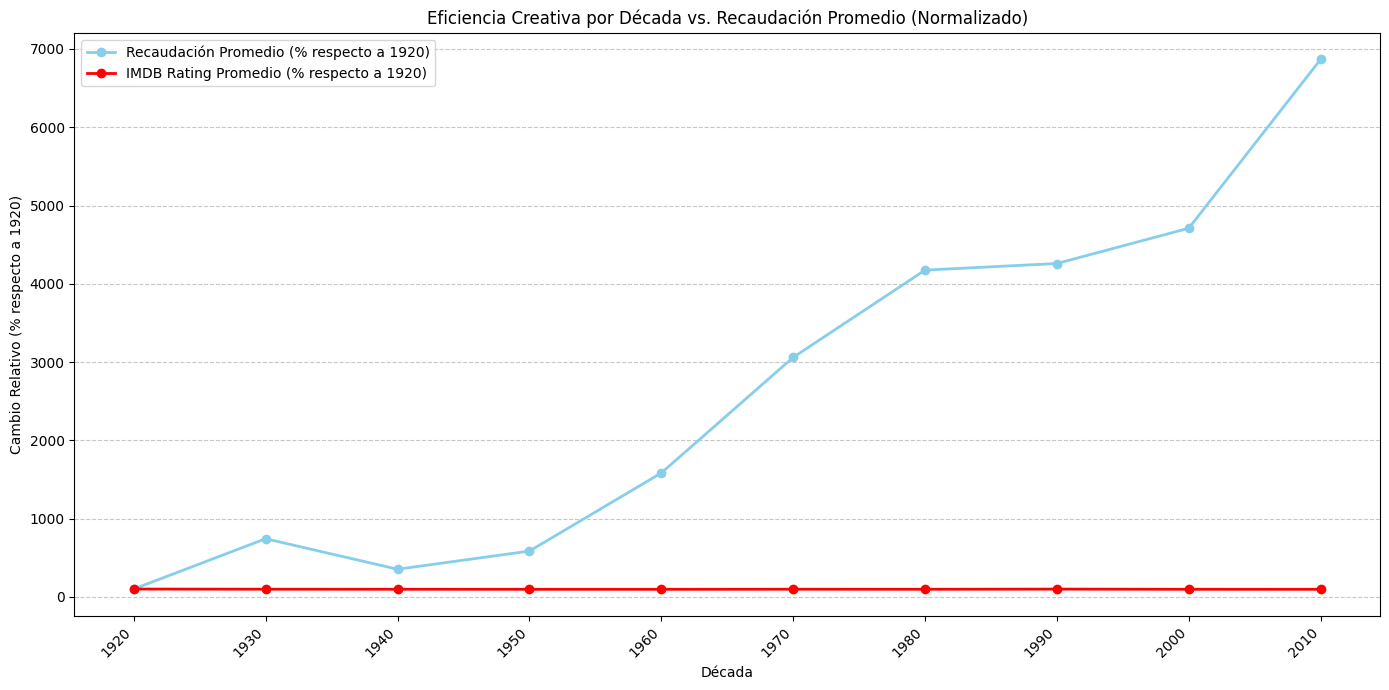
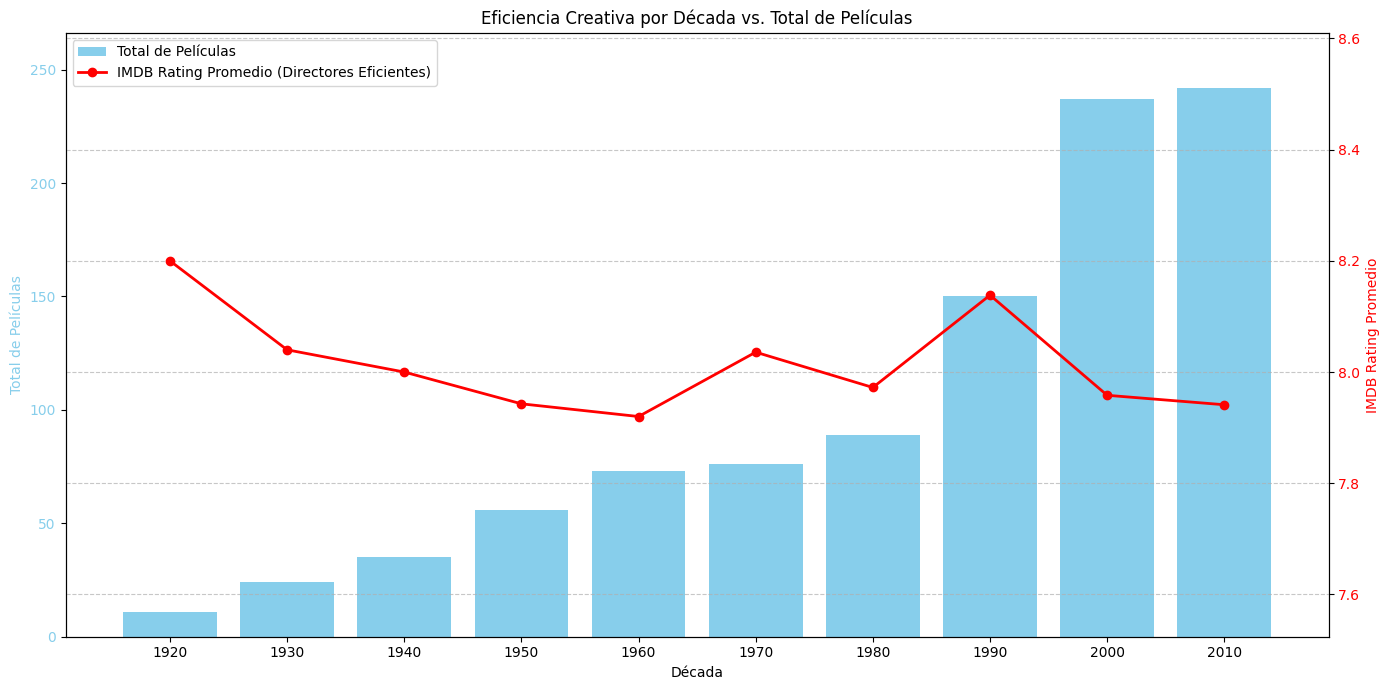
mejoras en estilo para agrandar imagenes

diff --git a/index.html b/index.html
@@ -146,18 +146,18 @@
 
                     <!-- 5. DIAPOSITIVAS CON IMAGEN (Gráficas) -->
                     <template v-if="slides[currentSlide].type === 'image-slide'">
-                        <div class="flex flex-col md:flex-row w-full h-full items-center justify-between text-left">
+                        <div class="flex flex-col md:flex-row w-full h-full items-center justify-between text-left gap-6">
                             
-                            <!-- Columna de Texto -->
-                            <div class="w-full md:w-1/3 pr-8 flex flex-col justify-center">
+                            <!-- Columna de Texto: Reducida de 1/3 a 1/4 (o 25% del ancho) -->
+                            <div class="w-full md:w-1/4 pr-4 flex flex-col justify-center">
                                 <p class="text-paper-accent tracking-widest mb-3 text-xs uppercase font-semibold">{{ slides[currentSlide].chapter }}</p>
-                                <h2 class="text-4xl text-slate-900 uppercase leading-none mb-6">{{ slides[currentSlide].title }}</h2>
-                                <p class="text-slate-600 font-light text-lg leading-relaxed">{{ slides[currentSlide].description }}</p>
+                                <h2 class="text-3xl md:text-4xl text-slate-900 uppercase leading-none mb-6">{{ slides[currentSlide].title }}</h2>
+                                <p class="text-slate-600 font-light text-base md:text-lg leading-relaxed">{{ slides[currentSlide].description }}</p>
                             </div>
                             
-                            <!-- Columna de Imagen -->
-                            <div class="w-full md:w-2/3 h-[50vh] md:h-[60vh] flex items-center justify-center p-4">
-                                <img :src="slides[currentSlide].img" alt="Gráfico de Análisis" class="chart-img max-w-full max-h-full object-contain rounded-lg bg-white">
+                            <!-- Columna de Imagen: Aumentada de 2/3 a 3/4 (75% del ancho) y más alta en pantallas grandes -->
+                            <div class="w-full md:w-3/4 h-[60vh] md:h-[80vh] flex items-center justify-center p-2">
+                                <img :src="slides[currentSlide].img" alt="Gráfico de Análisis" class="chart-img w-full h-full object-contain rounded-lg bg-white">
                             </div>
 
                         </div>
